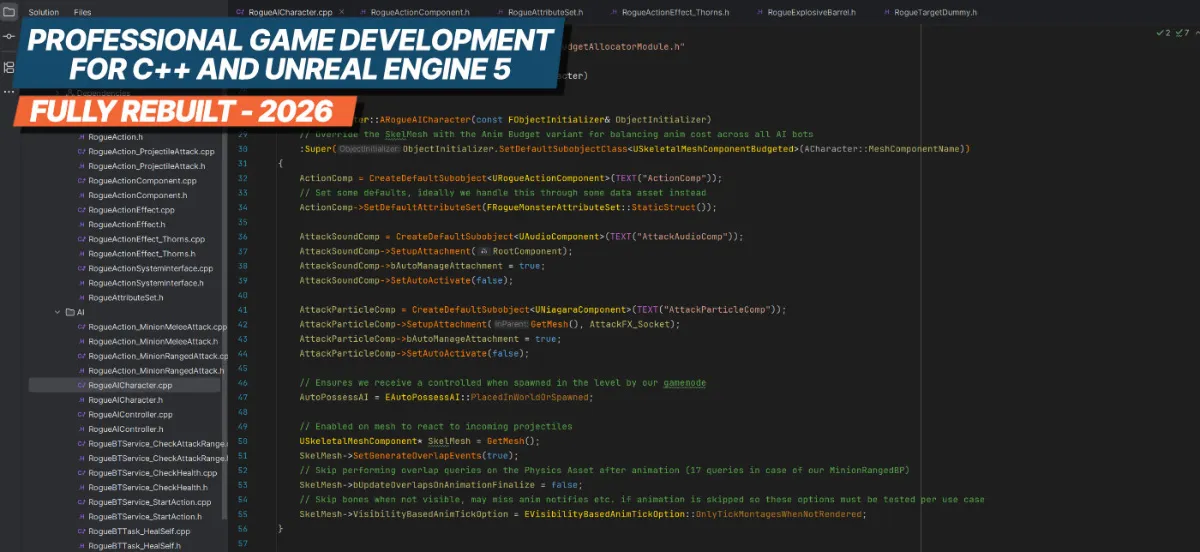
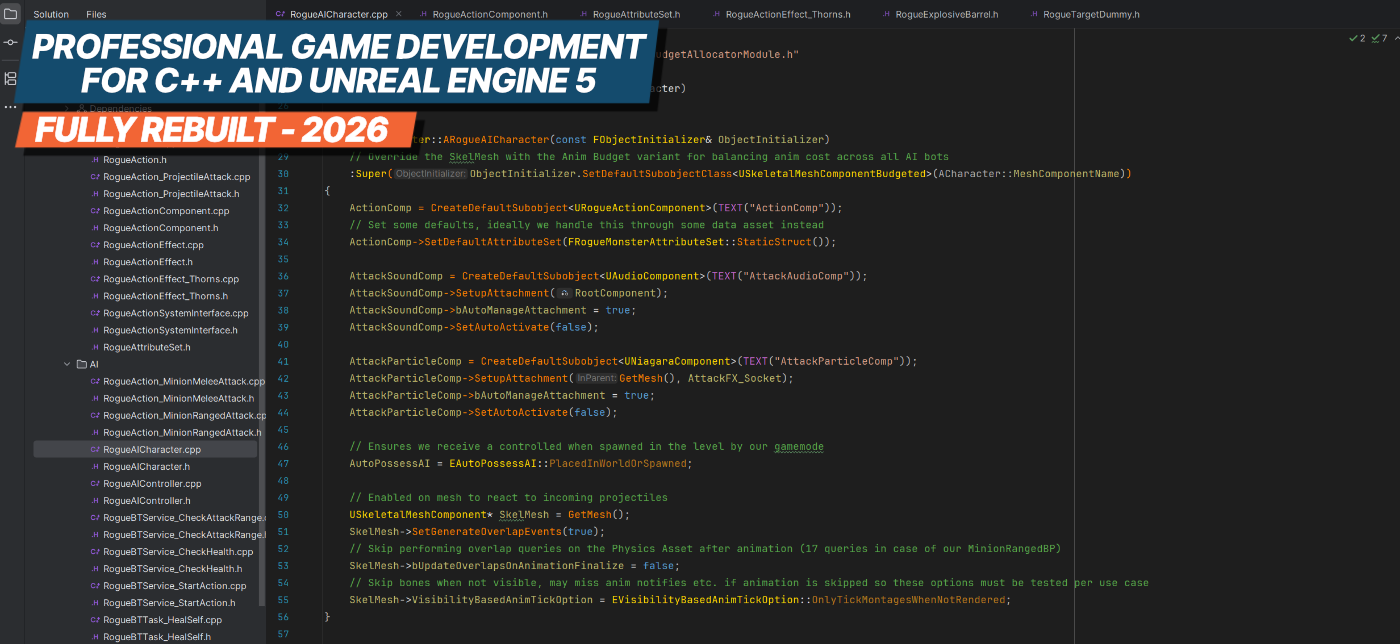
swapping coursebanner to no longer use react

diff --git a/assets/css/main.scss b/assets/css/main.scss
@@ -985,3 +985,50 @@ th {
     display: none;
   }
 }
+
+.courses-banner {
+  position: relative;
+  width: 100%;
+  aspect-ratio: 1200 / 450;
+  min-height: 280px;
+  max-height: 500px;
+  overflow: hidden;
+}
+
+.courses-banner__cpp,
+.courses-banner__optimization {
+  position: absolute;
+  inset: 0;
+  display: block;
+  background-repeat: no-repeat;
+  background-size: cover;
+  transition: transform 0.2s ease;
+}
+
+.courses-banner__cpp {
+  clip-path: polygon(0 0, 60% 0, 40% 100%, 0 100%);
+  background-position: left top;
+  background-color: $color-blue;
+}
+
+.courses-banner__optimization {
+  clip-path: polygon(60% 0, 100% 0, 100% 100%, 40% 100%);
+  background-position: right bottom;
+  background-color: $color-blue-accent;
+}
+
+.courses-banner__cpp:hover,
+.courses-banner__optimization:hover {
+  transform: scale(1.01);
+}
+
+.courses-banner a:focus-visible {
+  outline: none;
+  box-shadow: inset 0 0 0 4px white;
+}
+
+@media (prefers-reduced-motion: reduce) {
+  .courses-banner a {
+    transition: none;
+  }
+}
